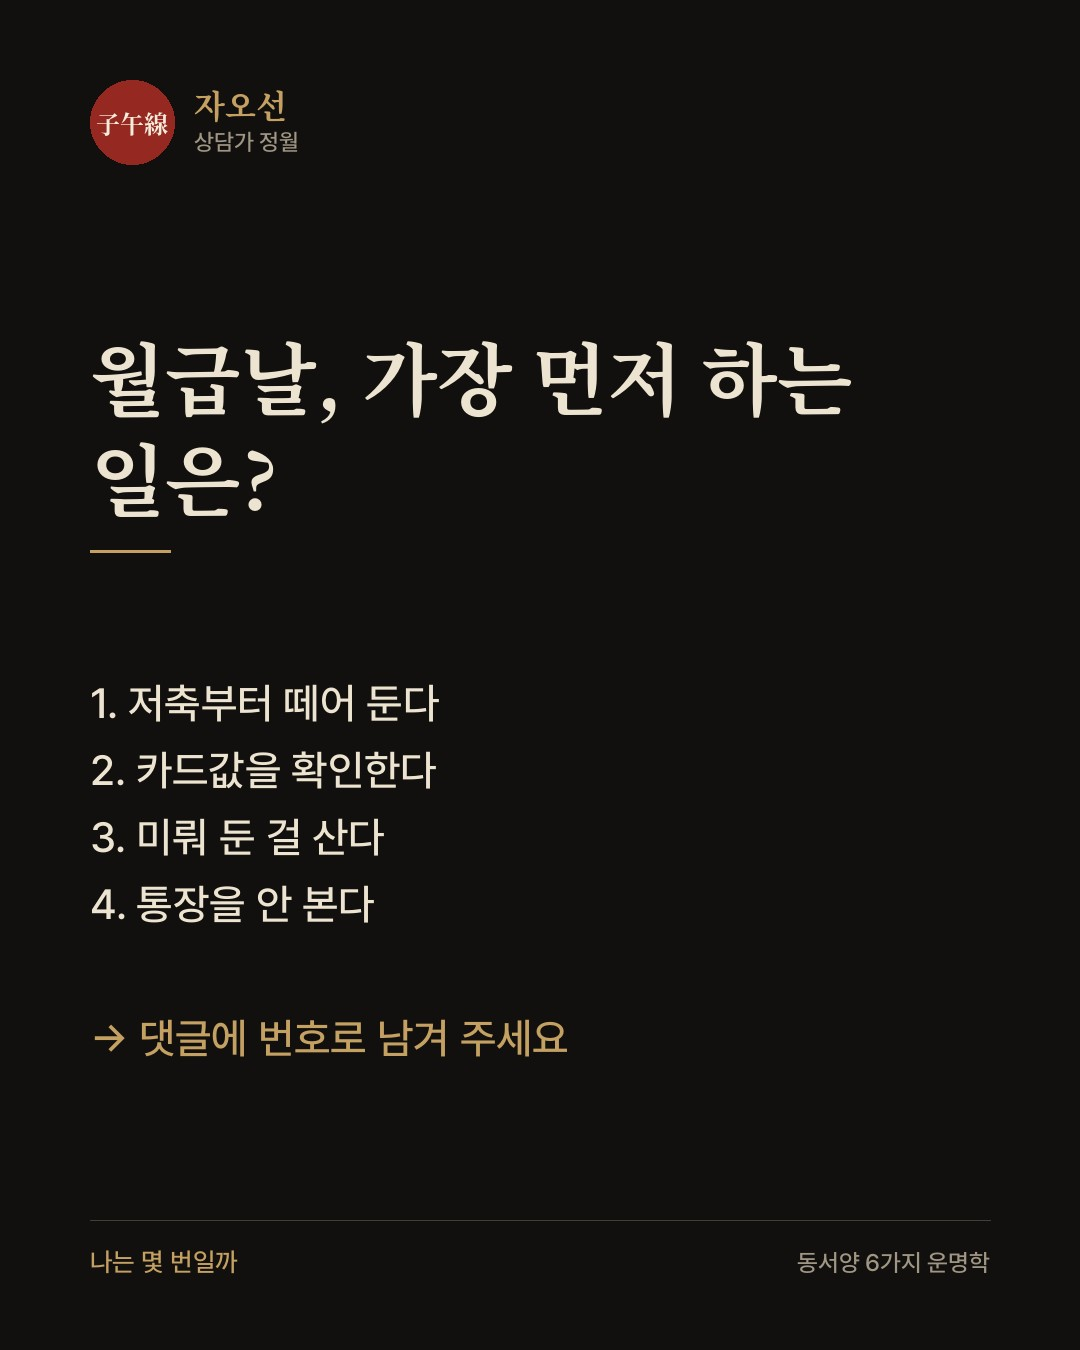
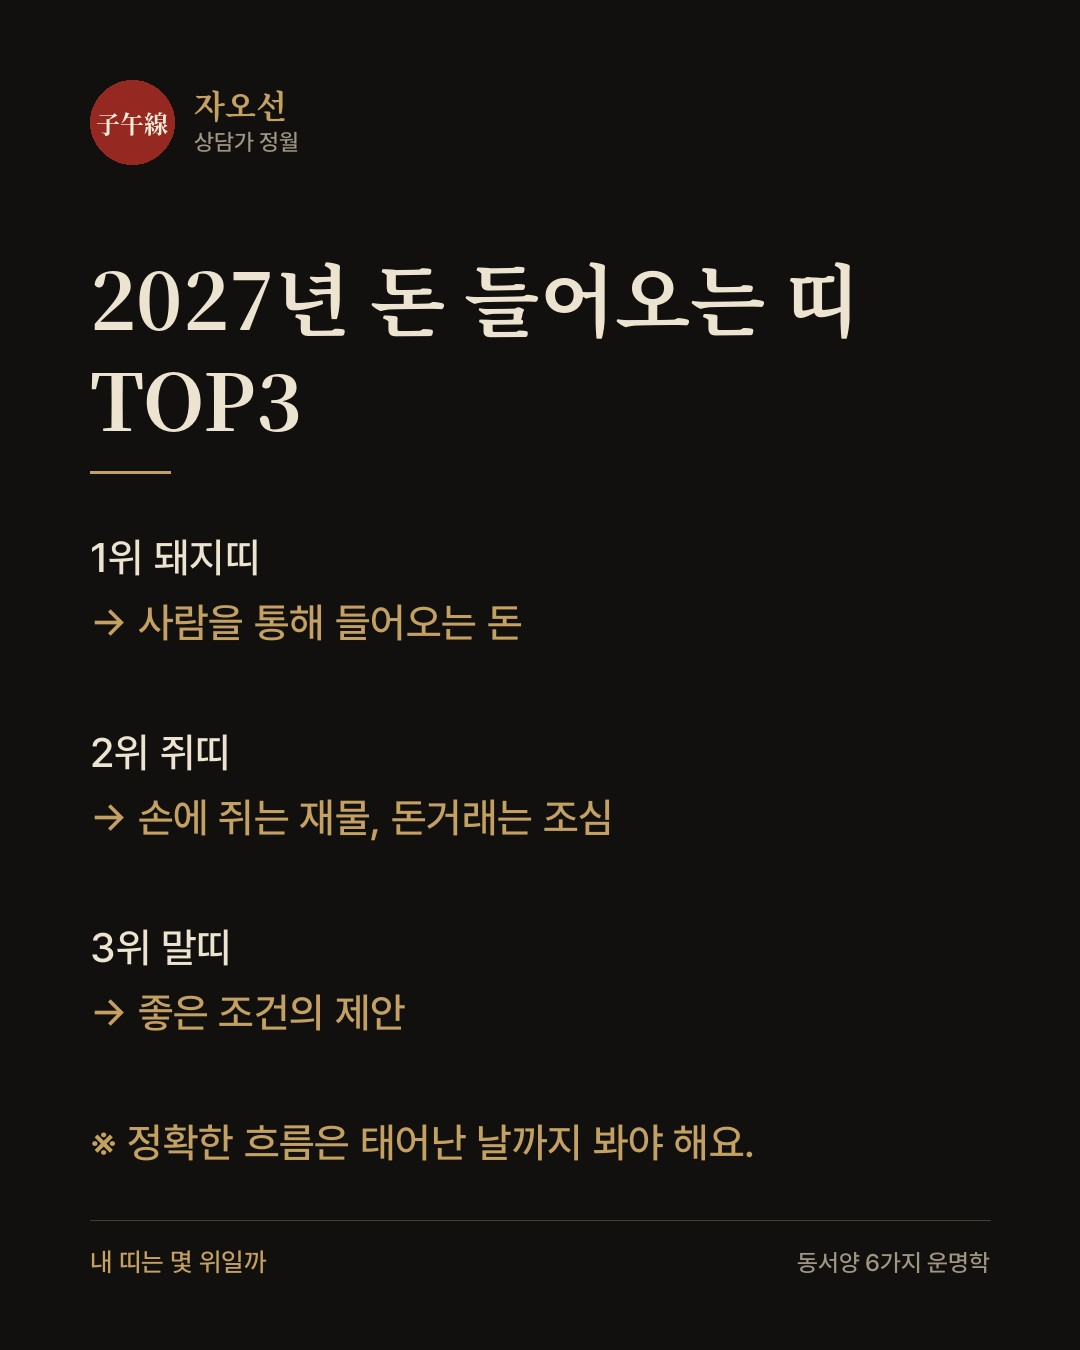
w42: 전략 반영(질문 끝맺음, 무료 한 줄 사주, TOP3, 해시태그 5개)

Changed region(s): [[0.0917, 0.1867, 0.7944, 0.7778], [0.0917, 0.8089, 0.7028, 0.8711], [0.0917, 0.9022, 0.2444, 0.9644]]

diff --git a/content/build_2026-w42.py b/content/build_2026-w42.py
@@ -1,6 +1,6 @@
 """2026-w42 (10/12~10/25) 원고 생성 -> 2026-w42.json"""
 import json, os
-HT = "#사주 #운세 #사주풀이 #자오선"
+HT = "#사주 #운세"  # 해시태그 5개 = 기본 2 + 주제 3 (STRATEGY.md)
 T = [  # 2027 띠별 (네이버 1편과 같은 내용, 문장은 SNS용으로 짧게)
  dict(name="쥐띠",mark="子",y="1972 · 1984 · 1996 · 2008",one="오해를 줄이는 해",
   hook="2027년, 돈은 들어오는데 마음이 상하는 사람",rel="서로 서운하게 만드는 관계",
@@ -101,12 +101,12 @@ def tti_post(date, t):
           f"2027년은 정미년이에요. 앞 글자 정(丁)은 등불, 뒷 글자 미(未)는 양띠의 땅이에요. "
           f"{t['name']}와 2027년은 '{t['rel']}'{ye(t['rel'])}. {t['why']}\n\n"
           f"힘을 쓸 달: {g}\n아낄 달: {s}\n행운의 색: {' · '.join(t['color'])} / 숫자 {t['num']} / 방향 {t['dir']}\n\n"
-          f"올해 해 볼 것: {t['do']}\n\n같은 띠라도 태어난 날에 따라 흐름이 달라요. 내 태어난 날의 기운은 프로필 링크에서 볼 수 있어요.\n\n#띠별운세")
+          f"올해 해 볼 것: {t['do']}\n\n같은 띠라도 태어난 날에 따라 흐름이 달라요. 내 태어난 날의 기운은 프로필 링크에서 볼 수 있어요.\n\n주변에 {t['name']}가 있다면 태그해 주세요. 여러분은 무슨 띠예요?\n\n#띠별운세")
     ig = (f"{t['hook']}\n{t['name']}({ys}년생)의 2027년, 한 줄로는 '{t['one']}'{ye(t['one'])}.\n\n"
           f"옆으로 넘기면 힘을 쓸 달과 아낄 달, 행운의 색·숫자·방향, 돈·일·사람 이야기가 있어요.\n"
           f"저장해 두고 1년 동안 꺼내 보세요. 주변에 {t['name']}가 있다면 공유해 주세요.\n\n"
           f"※ 1월~2월 초에 태어났다면 앞 해 띠일 수 있어요. 사주에서 띠는 입춘(2월 4일 무렵)에 바뀌어요.\n"
-          f"이 내용은 재미로, 그리고 나를 돌아보는 계기로 봐 주세요.\n\n{HT} #2027년운세 #띠별운세 #{t['name']}운세 #정미년")
+          f"이 내용은 재미로, 그리고 나를 돌아보는 계기로 봐 주세요.\n\n{HT} #2027년운세 #띠별운세 #{t['name']}운세")
     return dict(date=date, slot="am", tag="띠별운세", threads=[th], instagram=ig, image=img)
 
 WEEK1 = [("땅 위에 땅이 겹친 날.\n미뤄 둔 정리를 하기 좋아요.","책상 하나 치우기"),
@@ -134,18 +134,37 @@ def ask(date, tag, title, opts, hook, body, ig_extra, iht):
     img = dict(type="card", title=title, lines=[""] + lines + ["", "→ 댓글에 번호로 남겨 주세요"], foot="나는 몇 번일까")
     return dict(date=date, slot="pm", tag=tag, threads=[th], instagram=ig, image=img, threads_image=False)
 
-def join(date):
-    th = ("생년월일을 남겨 주시면 태어난 날의 기운을 한 줄로 알려 드릴게요.\n\n"
-          "예: 1994.3.15\n양력인지 음력인지도 함께 적어 주세요. 태어난 시간은 몰라도 괜찮아요.\n\n"
-          "기다리기 싫으신 분은 zaoseon.com 에서 1분 만에 직접 확인할 수 있어요.\n\n#사주")
-    ig = ("생년월일을 남겨 주시면, 태어난 날의 기운을 한 줄로 알려 드릴게요.\n\n"
-          "예: 1994.3.15 (양력/음력)\n태어난 시간은 몰라도 괜찮아요.\n"
+def join(date, n):
+    th = (f"정월의 무료 한 줄 사주 {n}번째\n\n"
+          "선착순 20분, 태어난 날의 기운을 한 줄로 풀어 드릴게요.\n"
+          "생년월일과 양력/음력을 댓글로 남겨 주세요. 예: 1994.3.15 양력\n태어난 시간은 몰라도 괜찮아요.\n"
+          "복채는 팔로우 한 번이면 충분해요.\n\n"
+          "기다리기 싫다면 프로필 링크에서 1분 만에 직접 볼 수 있어요.\n\n오늘은 몇 년생 분들이 오실까요?\n\n#사주")
+    ig = (f"정월의 무료 한 줄 사주 {n}번째\n\n"
+          "선착순 20분, 태어난 날의 기운을 한 줄로 풀어 드릴게요.\n"
+          "생년월일(양력/음력)을 댓글로 남겨 주세요. 태어난 시간은 몰라도 괜찮아요.\n"
           "바로 보고 싶다면 프로필 링크에서 1분 만에 직접 확인할 수 있어요.\n\n"
           "이 내용은 재미로, 그리고 나를 돌아보는 계기로 봐 주세요.\n\n" + HT + " #무료사주 #일주 #태어난날")
-    img = dict(type="card", title="생년월일을 남겨 주세요",
-               lines=["태어난 날의 기운을 한 줄로 알려 드릴게요.", "", "예: 1994.3.15 (양력/음력)", "태어난 시간은 몰라도 괜찮아요.", "",
-                      "→ 바로 보고 싶다면 프로필 링크에서 1분"], foot="댓글로 남겨 주세요")
+    img = dict(type="card", title=f"무료 한 줄 사주 {n}번째",
+               lines=["선착순 20분,", "태어난 날의 기운을 한 줄로 풀어 드려요.", "", "예: 1994.3.15 양력", "태어난 시간은 몰라도 괜찮아요.", "",
+                      "→ 댓글에 생년월일을 남겨 주세요", "→ 바로 보고 싶다면 프로필 링크"], foot="복채는 팔로우 한 번")
     return dict(date=date, slot="pm", tag="사주", threads=[th], instagram=ig, image=img, threads_image=False)
+
+def top3(date):
+    th = ("2027년, 돈이 먼저 찾아오는 띠가 있어요.\n\n"
+          "2027년은 정미년이에요. 앞 글자 정(丁)은 등불, 뒷 글자 미(未)는 양띠의 땅이에요.\n\n"
+          "1위 돼지띠\n양띠와 한 팀으로 뭉치는 띠(삼합)라서 사람을 통해 돈이 들어와요.\n\n"
+          "2위 쥐띠\n물의 기운인 쥐띠에게 해의 불(丁)은 손에 쥐는 재물이에요. 다만 가까운 사람과 돈거래는 조심하세요.\n\n"
+          "3위 말띠\n양띠와 짝을 이루는 띠(육합)라서 좋은 조건의 제안이 들어와요.\n\n"
+          "순위 밖이라고 실망하지 마세요. 돈의 흐름은 태어난 날까지 봐야 정확해요.\n\n여러분 띠는 몇 위였나요?\n\n#재물운")
+    ig = ("2027년, 돈이 먼저 찾아오는 띠 TOP3\n\n"
+          "1위 돼지띠 - 사람을 통해 들어오는 돈\n2위 쥐띠 - 손에 쥐는 재물, 돈거래는 조심\n3위 말띠 - 좋은 조건의 제안\n\n"
+          "순위 밖이어도 괜찮아요. 돈의 흐름은 태어난 날까지 봐야 정확해요.\n"
+          "저장해 두고, 돼지띠·쥐띠·말띠 친구에게 공유해 주세요.\n\n" + HT + " #재물운 #2027년운세 #띠별운세")
+    img = dict(type="card", title="2027년 돈 들어오는 띠 TOP3",
+               lines=["1위 돼지띠", "→ 사람을 통해 들어오는 돈", "", "2위 쥐띠", "→ 손에 쥐는 재물, 돈거래는 조심", "",
+                      "3위 말띠", "→ 좋은 조건의 제안", "", "※ 정확한 흐름은 태어난 날까지 봐야 해요."], foot="내 띠는 몇 위일까")
+    return dict(date=date, slot="pm", tag="재물운", threads=[th], instagram=ig, image=img, threads_image=False)
 
 def sanggang(date):
     th = ("찬 바람에 괜히 마음이 가라앉는 날이 있죠.\n\n"
@@ -178,11 +197,10 @@ PM = [
      "회의만 들어가면 말수가 줄어드는 사람","회의 시간의 모습에는 일하는 방식이 그대로 보여요.","정답은 없어요. 각자 빛나는 자리가 달라요.","#직장인 #회사생활 #일하는방식"),
  ask("2026-10-14","연애","나는 어떻게 사랑에 빠질까?",["첫눈에 반한다","대화하다 스며든다","친구였다가 어느 날 깨닫는다","아직 잘 모르겠다"],
      "첫눈에 반하는 사람, 천천히 스며드는 사람","사랑에 빠지는 속도는 사람마다 달라요.","친구에게 공유해서 서로 번호를 맞혀 보세요.","#연애 #짝사랑 #연애심리"),
- ask("2026-10-15","재물운","월급날, 가장 먼저 하는 일은?",["저축부터 떼어 둔다","카드값을 확인한다","미뤄 둔 걸 산다","통장을 안 본다"],
-     "월급날만 되면 통장을 열어 보기가 무서운 사람","돈을 다루는 습관에도 성향이 보여요.","저장해 두고 다음 월급날 다시 골라 보세요.","#재물운 #돈관리 #월급날"),
+ top3("2026-10-15"),
  ask("2026-10-16","인간관계","약속이 갑자기 취소되면?",["솔직히 좀 반갑다","서운하다","다른 약속을 잡는다","그냥 잔다"],
      "약속이 취소되면 속으로 살짝 웃는 사람","금요일 밤, 약속이 취소됐어요. 첫 마음은 어느 쪽인가요?","내향과 외향만으로는 설명이 안 되는 마음도 있어요.","#인간관계 #내향인 #금요일"),
- join("2026-10-17"),
+ join("2026-10-17", 1),
  ask("2026-10-18","연애","좋아하는 사람 앞에서 나는?",["말이 많아진다","오히려 조용해진다","장난을 친다","티가 하나도 안 난다"],
      "좋아하는 사람 앞에서만 이상해지는 사람","마음이 가면 행동이 달라지죠. 나는 어떤 쪽인가요?","친구 번호도 맞혀 보고 공유해 주세요.","#연애 #짝사랑 #썸"),
  ask("2026-10-19","직장인","월요일을 버티게 하는 것은?",["커피 한 잔","퇴근 후 약속","동료와의 수다","주말까지 남은 날 세기"],
@@ -194,7 +212,7 @@ PM = [
  ask("2026-10-22","궁합","나랑 잘 맞는 사람은?",["나와 비슷한 사람","나와 정반대인 사람","나를 편하게 해 주는 사람","나를 자극하는 사람"],
      "나와 비슷한 사람, 정반대인 사람. 누구와 더 잘 맞을까","사주에서는 다섯 기운(나무·불·흙·쇠·물)이 서로 키워 주는지, 부딪히는지로 궁합을 봐요.","내 생각과 사주의 답이 다를 때도 있어요.","#궁합 #연애궁합 #오행"),
  sanggang("2026-10-23"),
- join("2026-10-24"),
+ join("2026-10-24", 2),
  ask("2026-10-25","운세","2027년에 가장 바라는 것은?",["돈이 모이는 해","좋은 사람을 만나는 해","일에서 인정받는 해","마음이 편한 해"],
      "내년에 딱 하나만 이뤄진다면 무엇을 고를까요","띠별 2027년 이야기를 12일 동안 나눴어요. 이제 여러분 차례예요.","내 띠의 2027년 이야기는 지난 게시물에 있어요.","#2027년운세 #신년운세 #띠별운세"),
 ]

diff --git a/pipeline/payloads.py b/pipeline/payloads.py
@@ -13,7 +13,7 @@ def build(src):
         th, ig = p.get("threads"), p.get("instagram")
         if p["image"]["type"] == "week":
             th, ig = render.week_texts(p["image"]); th[0] += "\n\n#운세"
-            ig += "\n\n#사주 #운세 #사주풀이 #자오선 #주간운세 #일진 #오늘의운세"
+            ig += "\n\n#사주 #운세 #주간운세 #일진 #오늘의운세"
         common = {"autoPublish": True, "draft": False, "firstCommentText": "", "hasNotReadNotes": False, "shortener": False,
                   "smartLinkData": {"ids": []}, "publicationDate": {"dateTime": dt, "timezone": "Asia/Seoul"}}
         out.append((f"{i+1:02d} ig {dt}", dict(common, text=ig, media=m, providers=[{"network": "instagram"}],
